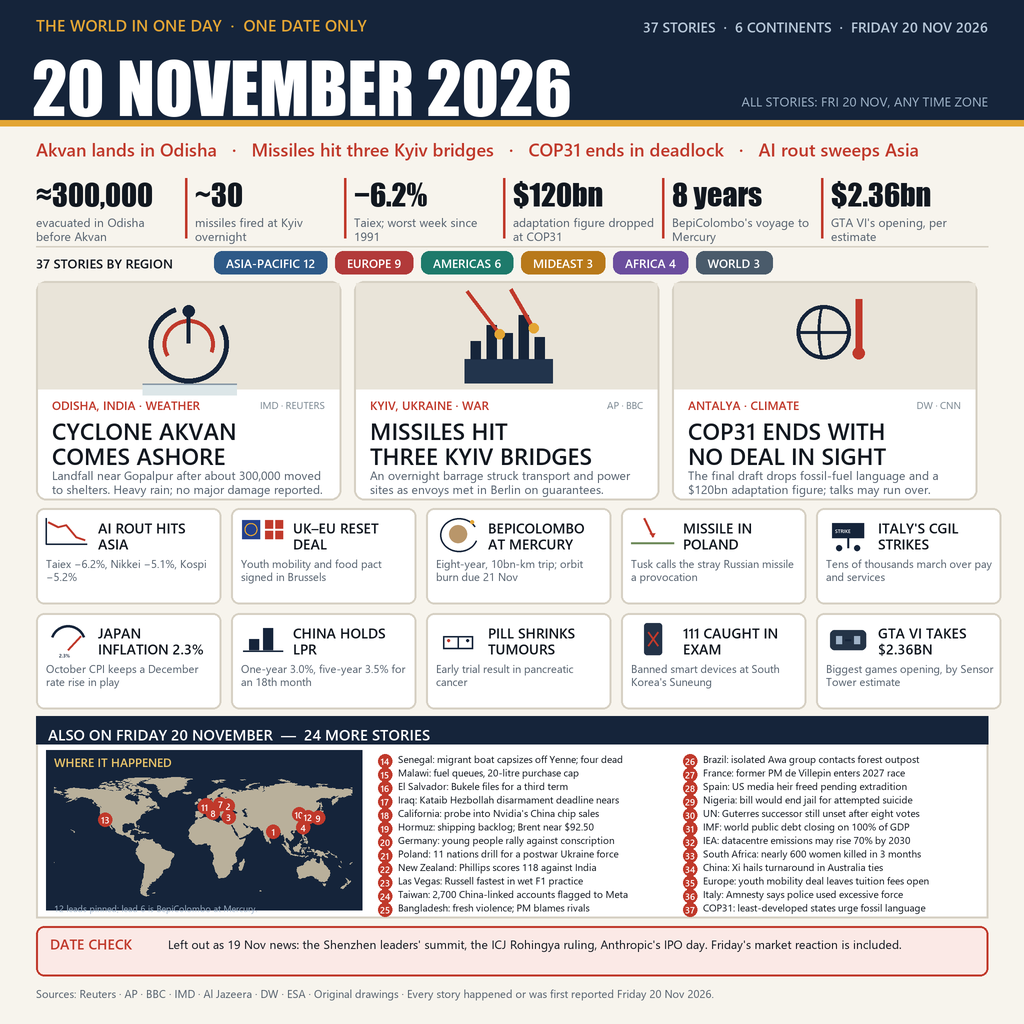
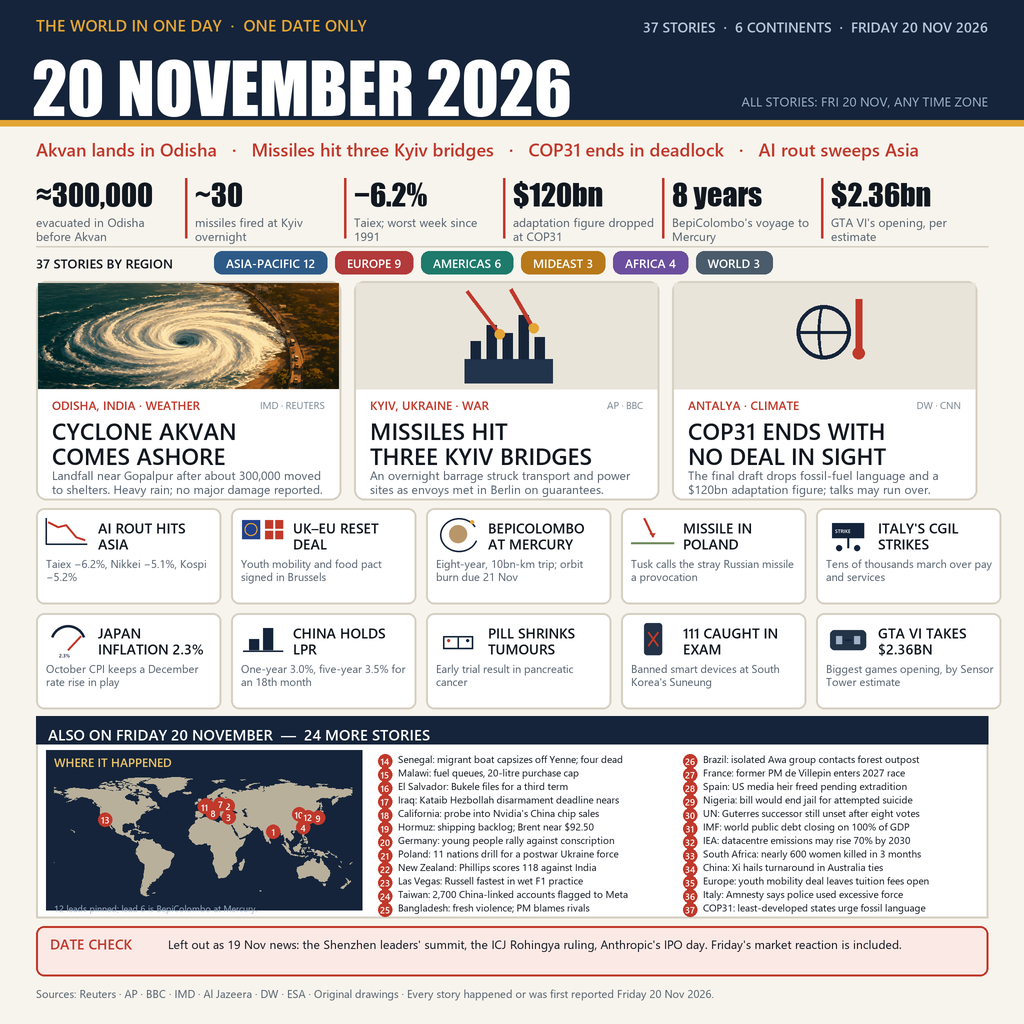
Add locally generated cyclone illustration to hero card

Changed region(s): [[0.0312, 0.25, 0.3438, 0.4062]]

diff --git a/NEWS_SOURCES.md b/NEWS_SOURCES.md
@@ -12,4 +12,4 @@ Key checks:
 - UK–EU summit: BBC, FT, Euronews. Youth mobility and food agreements signed in Brussels.
 - Other briefs: Reuters, AP, BBC, AFP, IMD, DW and Al Jazeera coverage dated 20 Nov 2026.
 
-The picture is an original drawing made for this entry; no third-party artwork or photographs are used.
+The first hero illustration (Cyclone Akvan) was generated locally from a text-only prompt with no reference photograph; the proxy's output was cropped and downsampled, and all text, numbers, map and pins remain original vector drawing. No third-party artwork or photographs are used.
